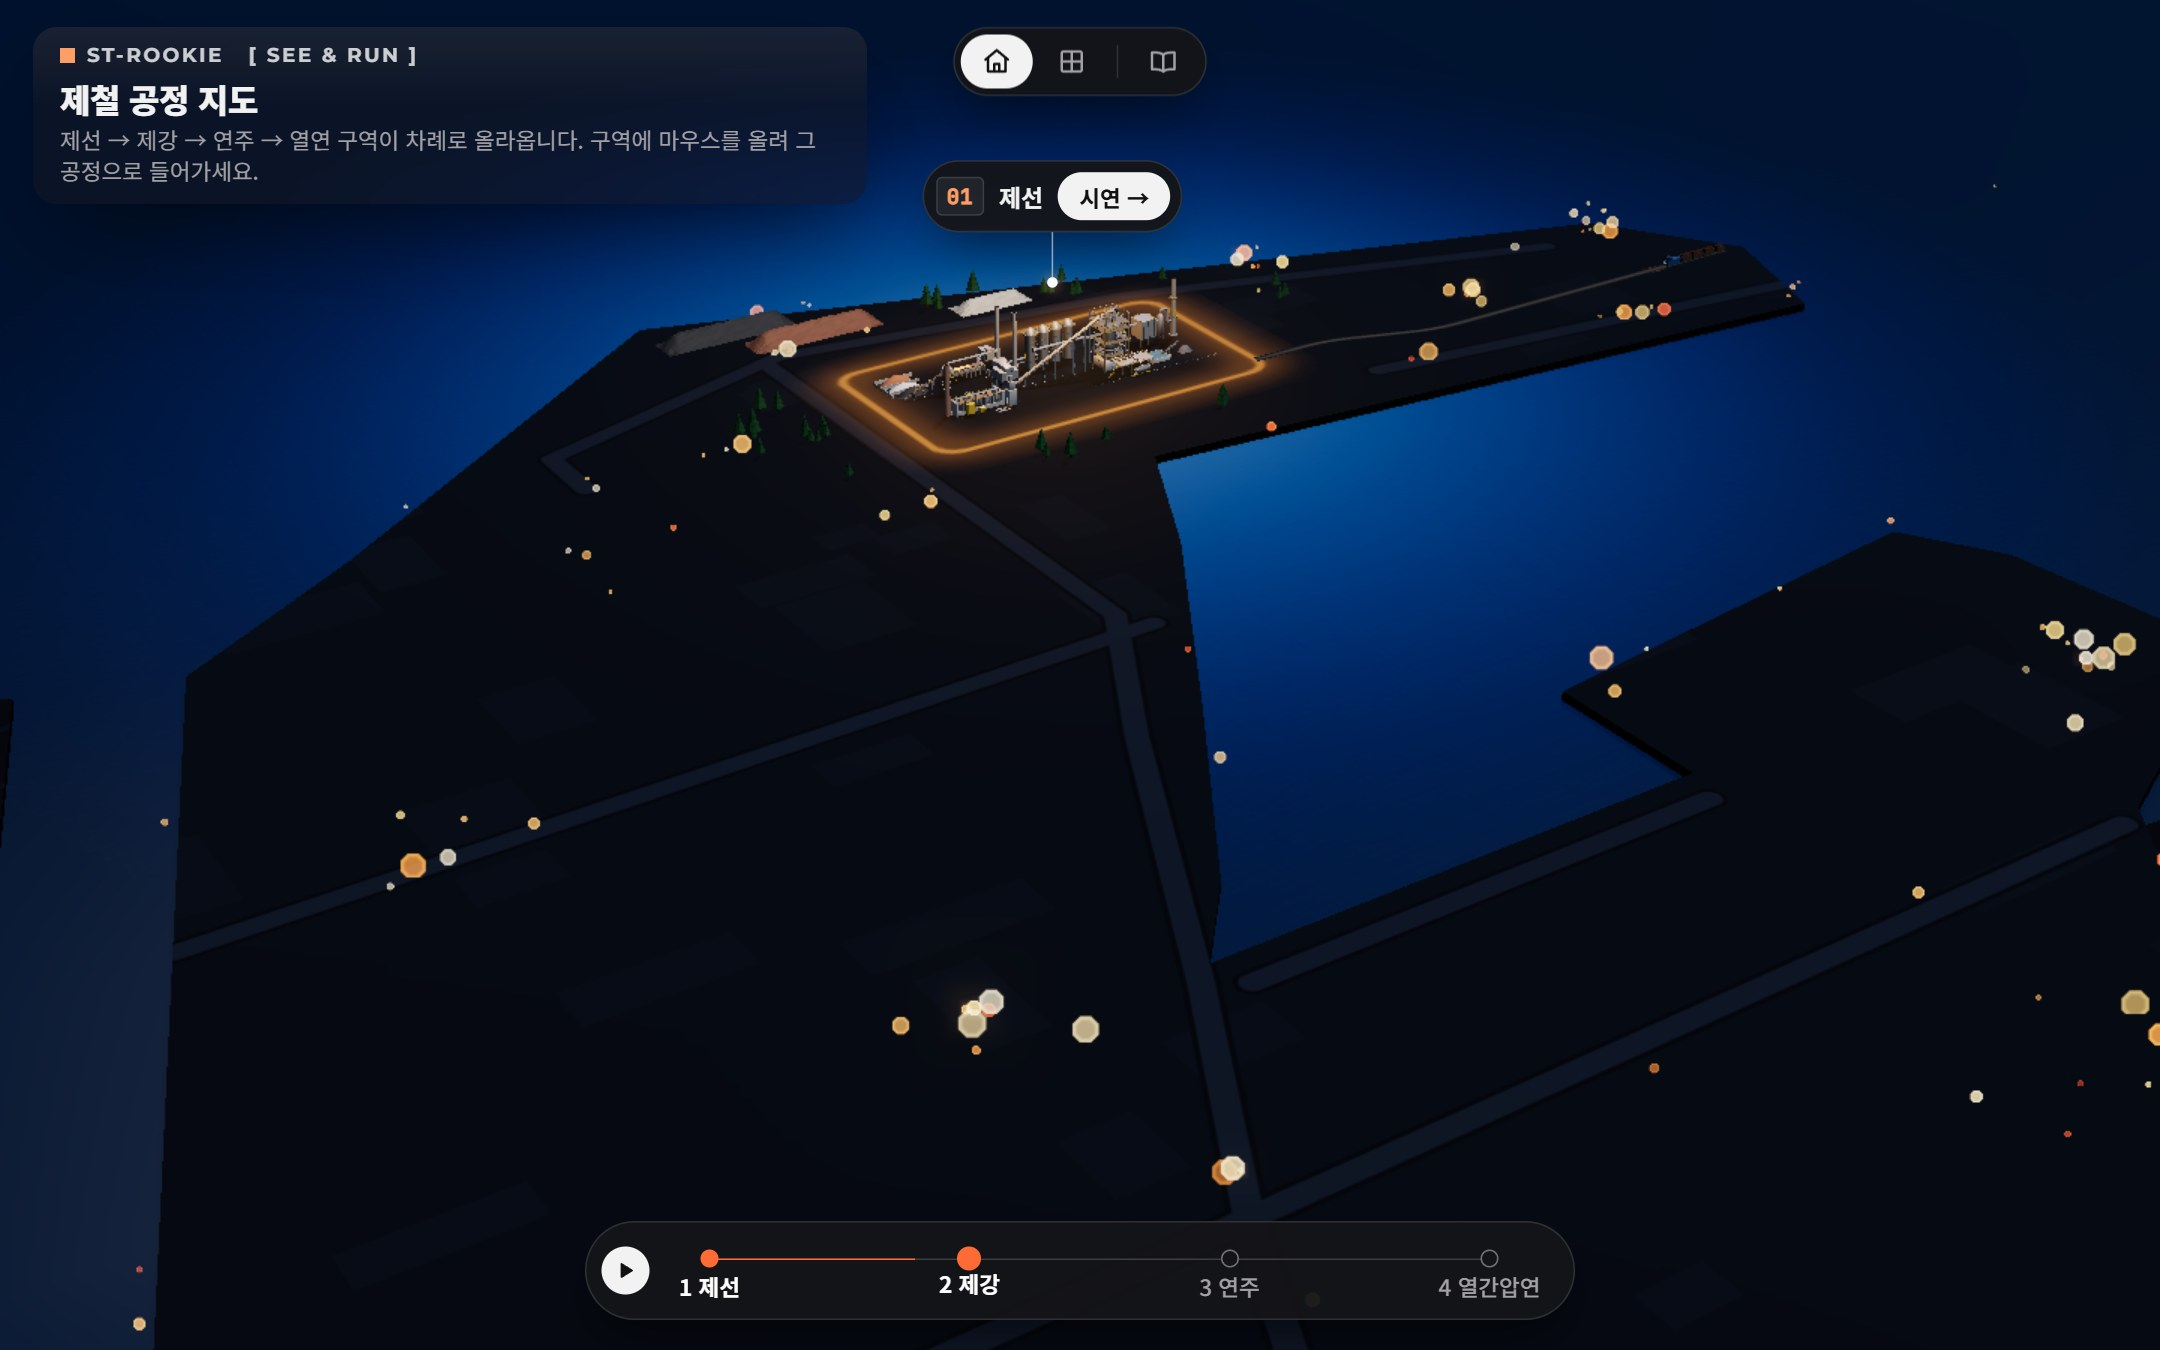
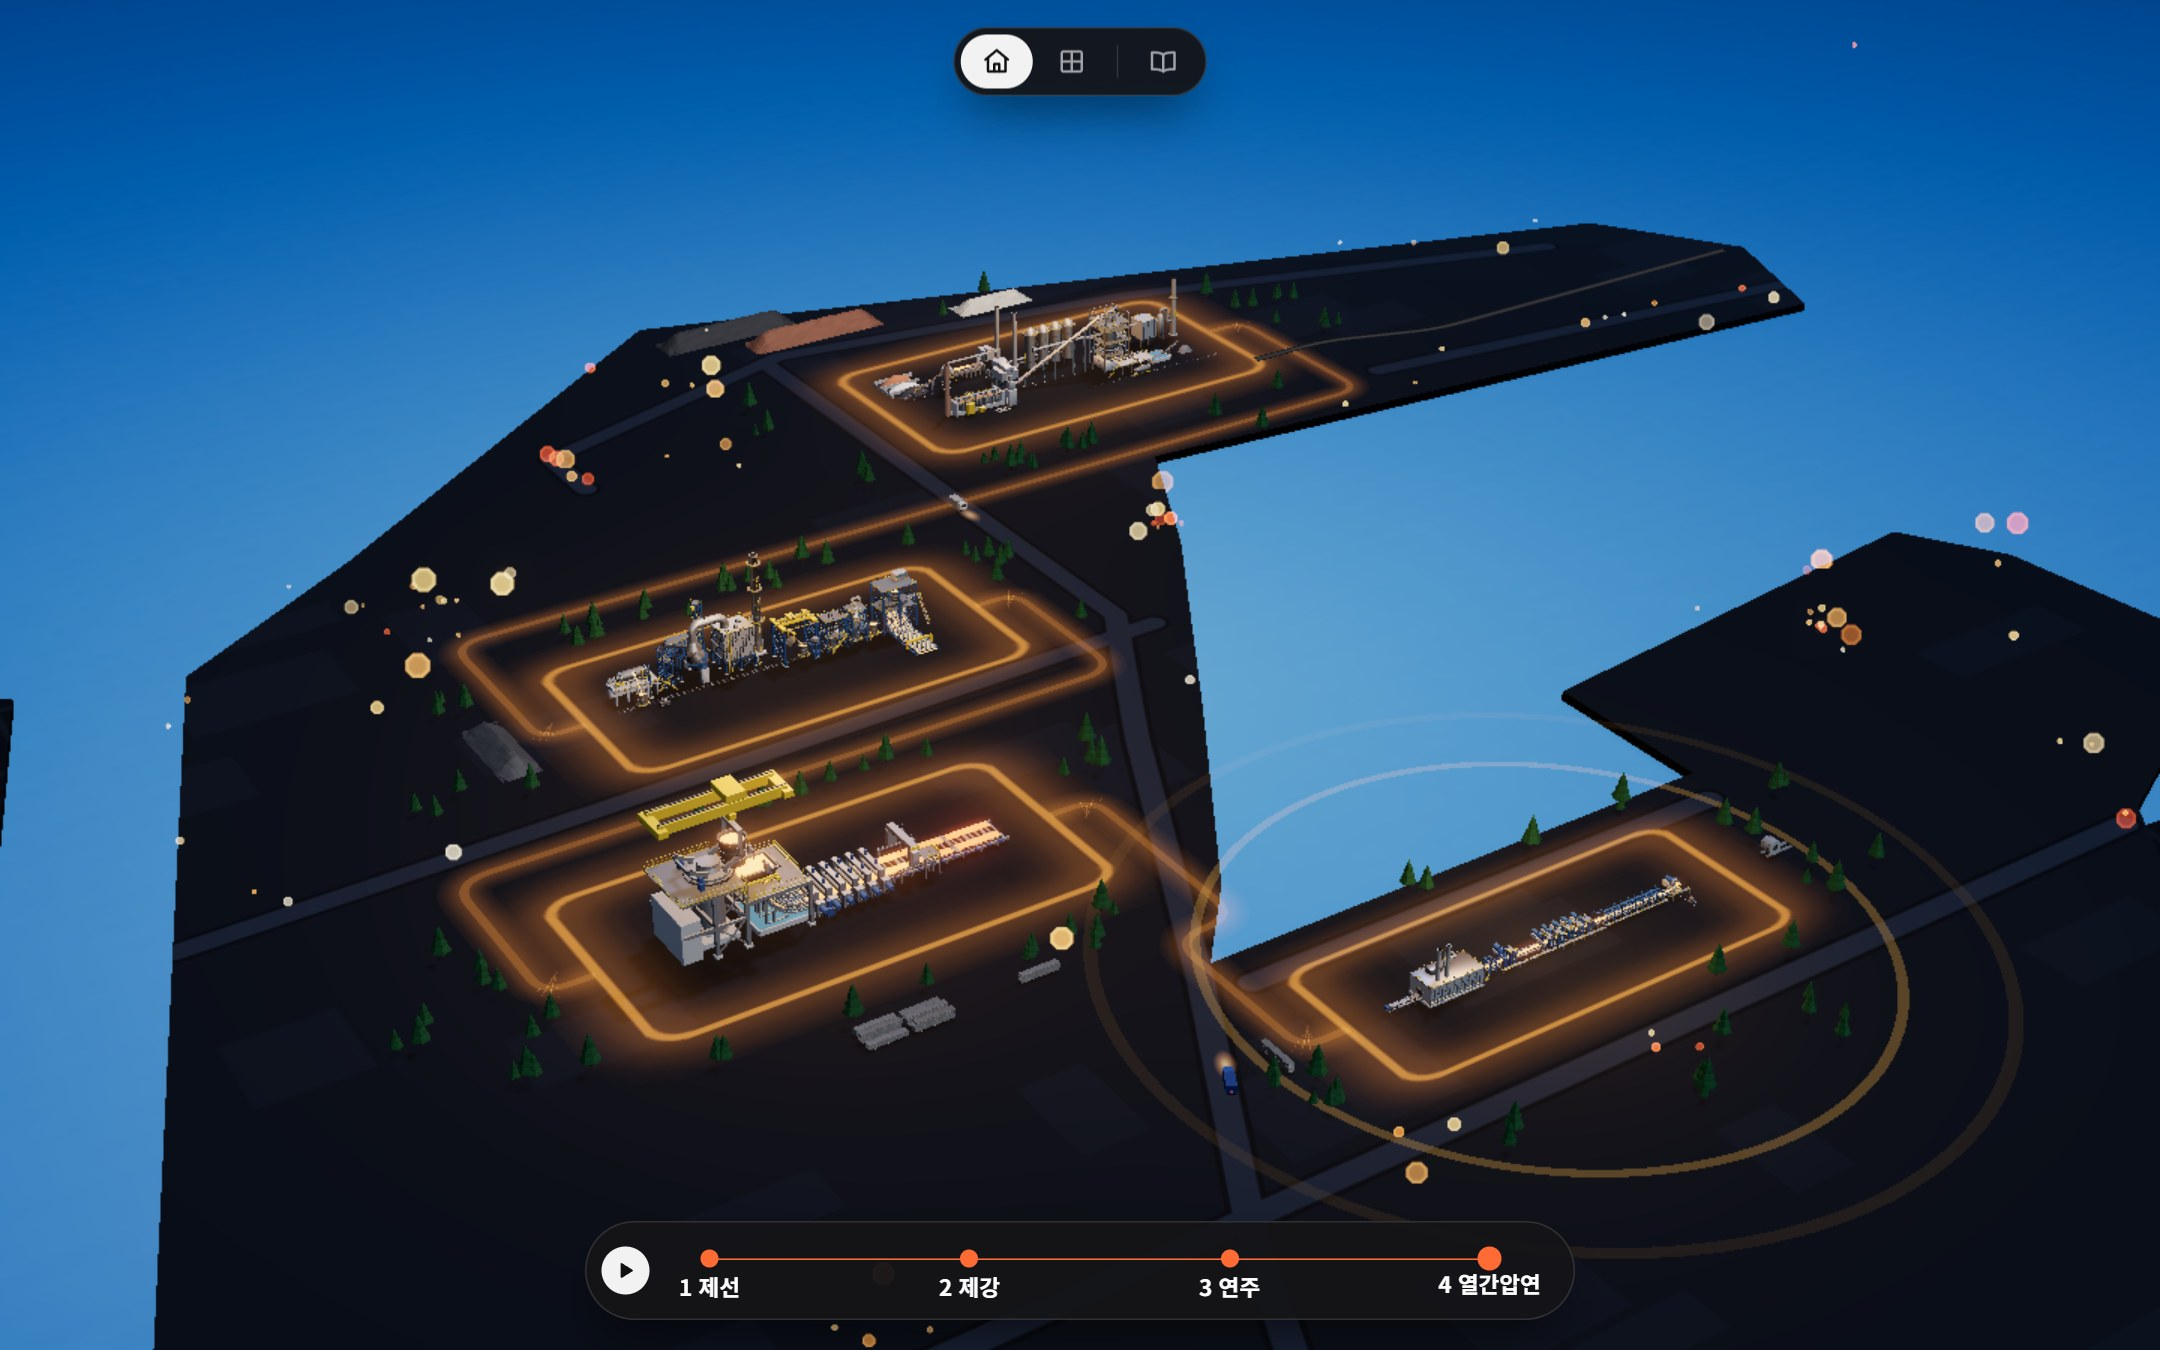
docs: show all four processes risen on the plant map screenshot

diff --git a/README.md b/README.md
@@ -28,7 +28,7 @@ ST-ROOKIE는 이 문제를 세 단계로 풀었습니다.
 
 ## 화면
 
-| 제철 공정 지도 | 사고 사례 갈림길 3D 재현 |
+| 제철 공정 지도 (4개 공정 전체) | 사고 사례 갈림길 3D 재현 |
 |---|---|
 | ![공정 지도](docs/portfolio/02-plant-map.jpg) | ![사고 사례 갈림길](docs/portfolio/03-incident-replay.jpg) |
 | **학습 화면 + 튜터 캐릭터 포석호 안내** | **설명형 평가 시험** |
